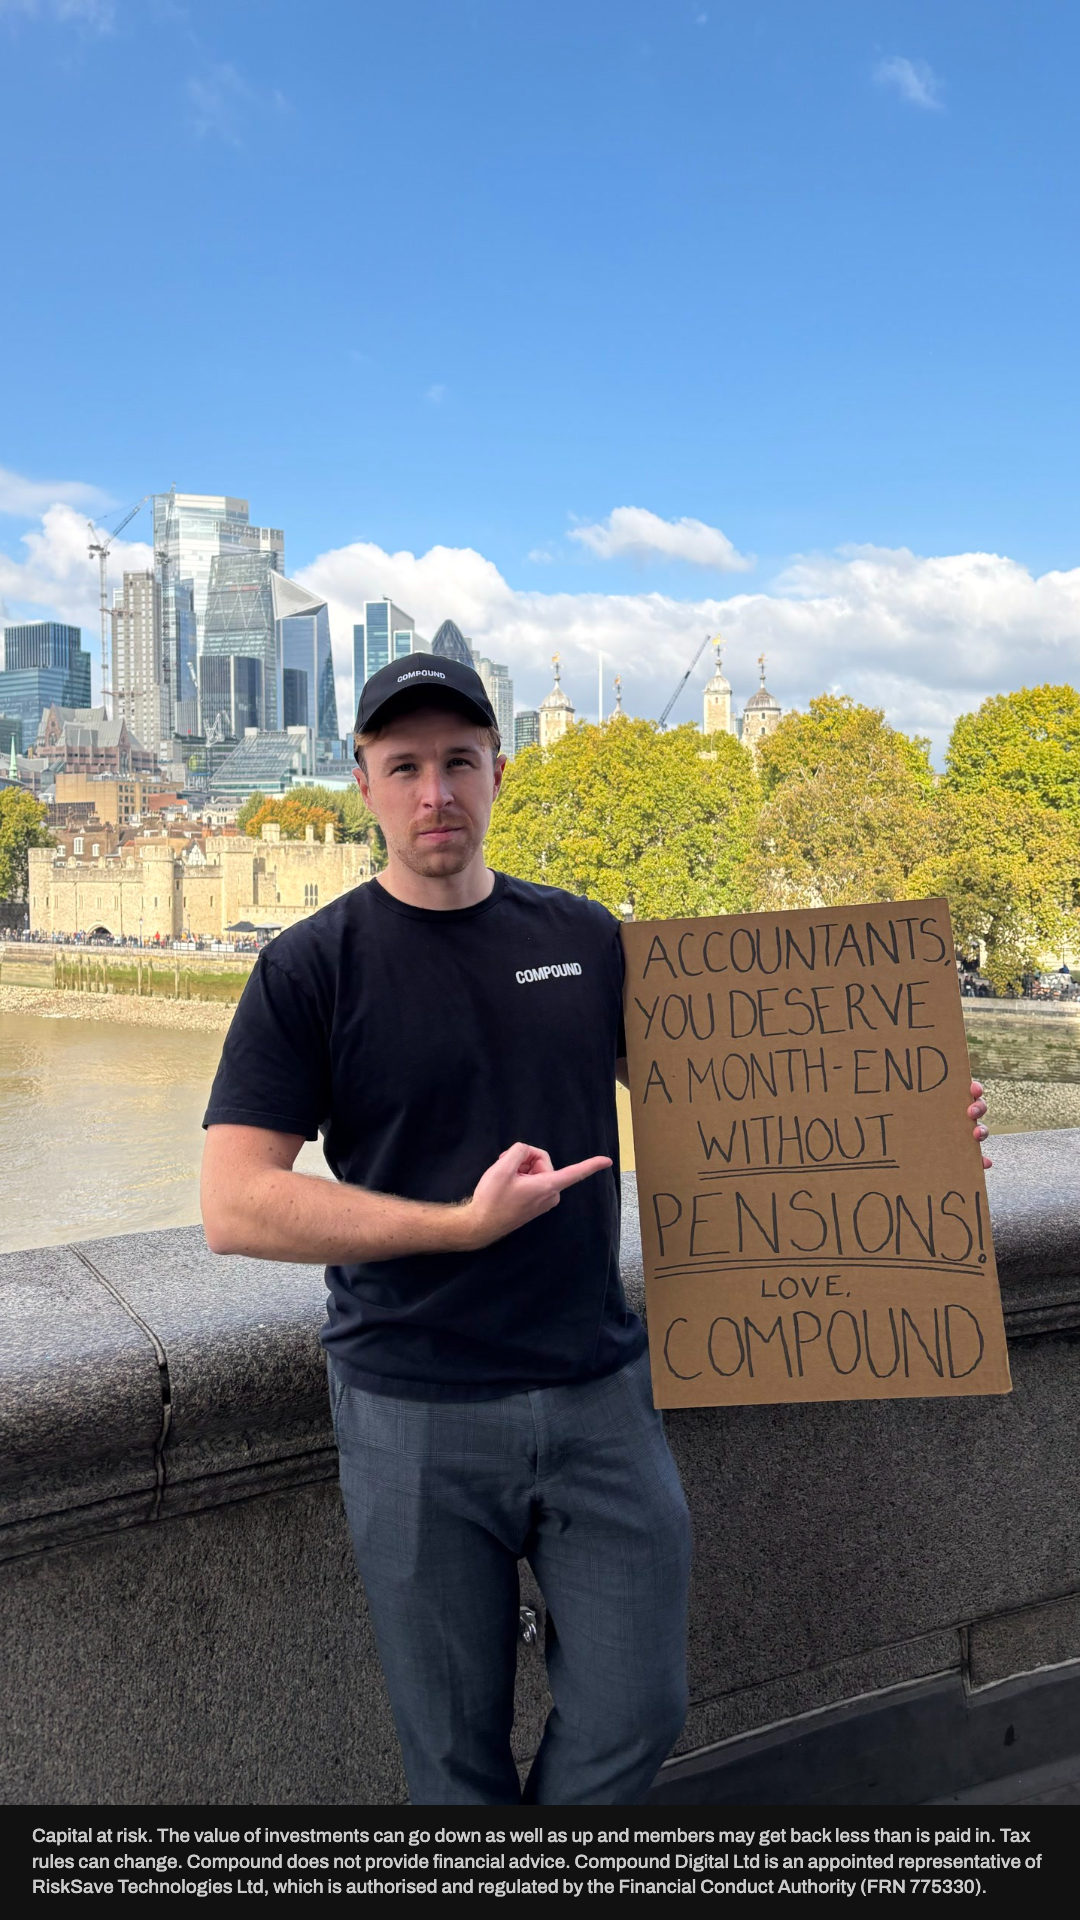
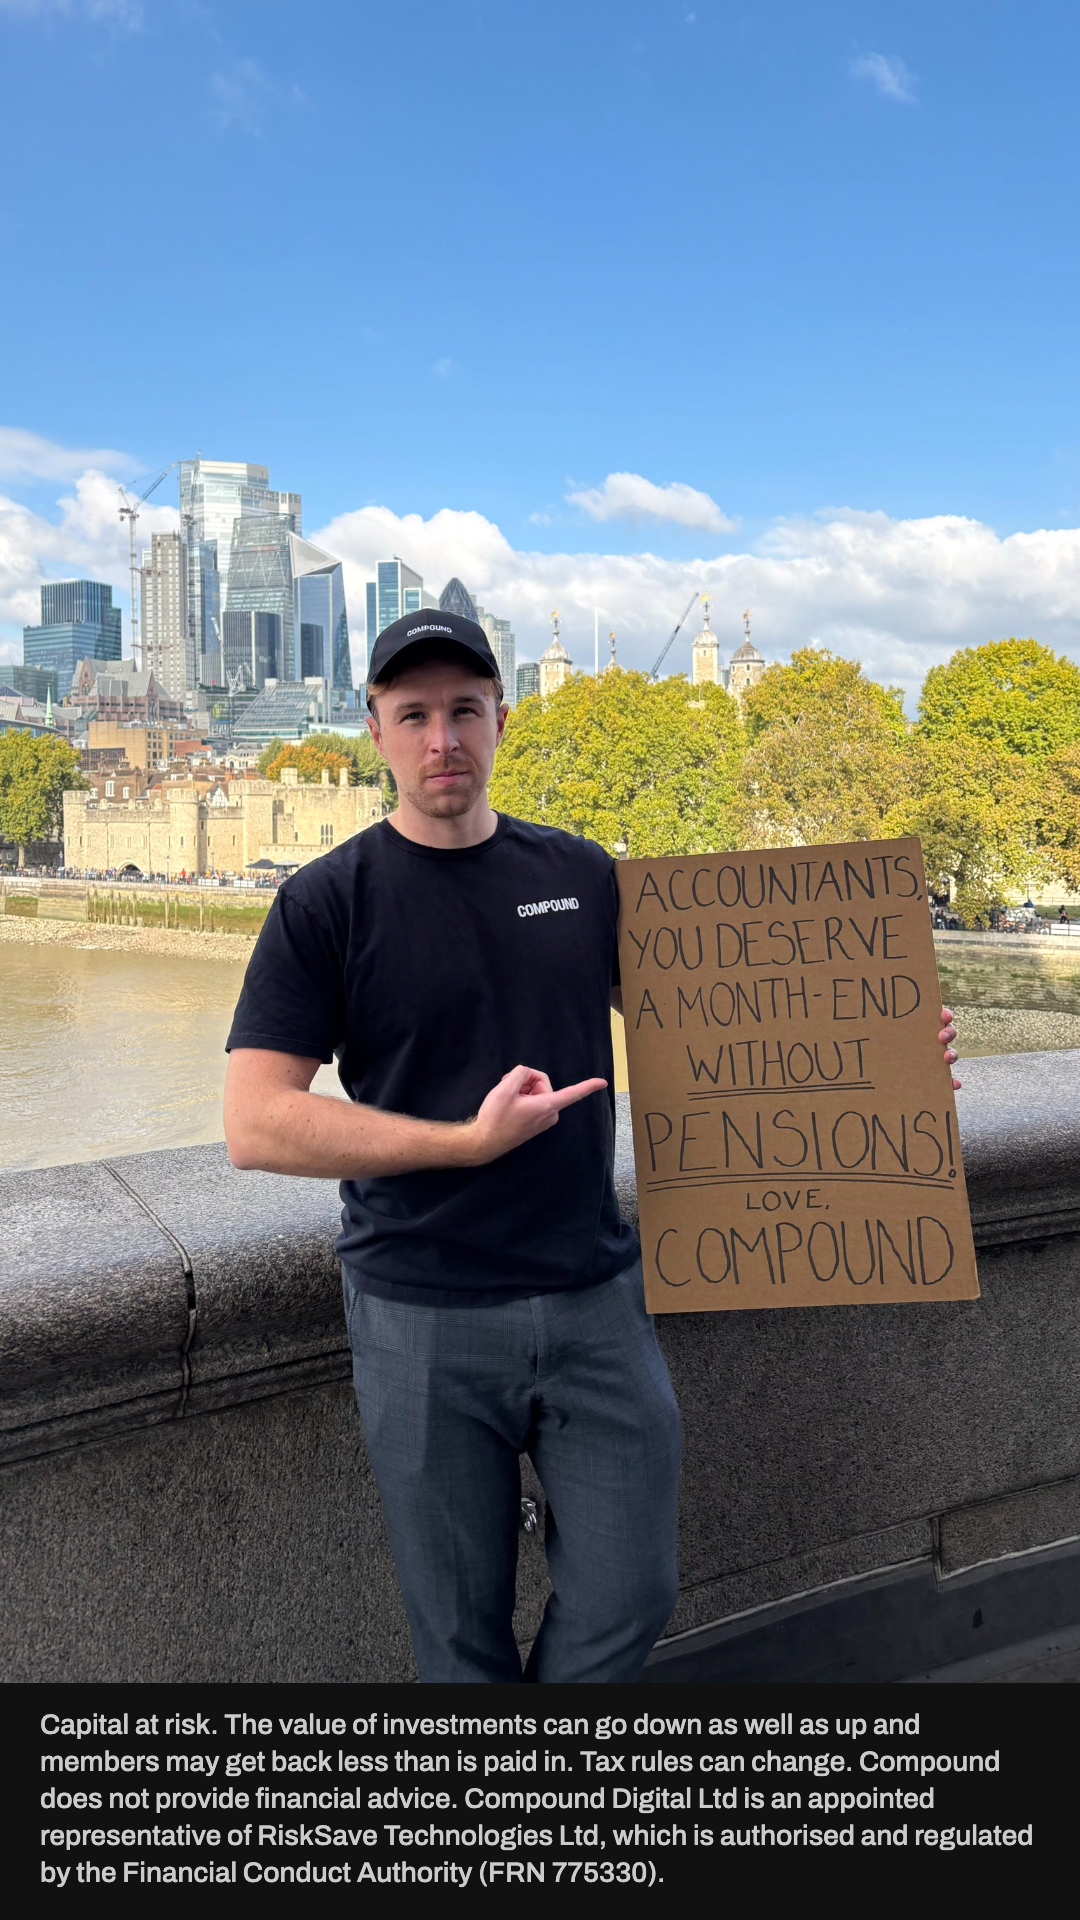
fix(compound): larger risk text on sign statics

diff --git a/outputs/creative/compound-sign-statics/html/S03-9x16.html b/outputs/creative/compound-sign-statics/html/S03-9x16.html
@@ -8,9 +8,9 @@ body{display:flex;flex-direction:column}
 .split{display:flex;gap:4px;background:#111}
 .half{flex:1;min-width:0;min-height:0;overflow:hidden}
 img{display:block;width:100%;height:100%;object-fit:cover}
-.risk{padding:18px 32px 20px;
+.risk{padding:24px 40px 28px;
   font-family:'Archivo',sans-serif;font-weight:500;color:rgba(255,255,255,.78);
-  font-size:19px;line-height:1.35}
+  font-size:28px;line-height:1.32}
 </style></head><body>
 <div class="media split" style="flex-direction:column"><div class="half"><img src="../photos/IMG_5772.jpg" style="object-position:50% 45%"></div><div class="half"><img src="../photos/IMG_5775.jpg" style="object-position:50% 55%"></div></div>
 <div class="risk">Capital at risk. The value of investments can go down as well as up and members may get back less than is paid in. Tax rules can change. Compound does not provide financial advice. Compound Digital Ltd is an appointed representative of RiskSave Technologies Ltd, which is authorised and regulated by the Financial Conduct Authority (FRN 775330).</div>

diff --git a/outputs/creative/compound-sign-statics/html/S03-1x1.html b/outputs/creative/compound-sign-statics/html/S03-1x1.html
@@ -8,9 +8,9 @@ body{display:flex;flex-direction:column}
 .split{display:flex;gap:4px;background:#111}
 .half{flex:1;min-width:0;min-height:0;overflow:hidden}
 img{display:block;width:100%;height:100%;object-fit:cover}
-.risk{padding:14px 28px 16px;
+.risk{padding:18px 32px 20px;
   font-family:'Archivo',sans-serif;font-weight:500;color:rgba(255,255,255,.78);
-  font-size:15px;line-height:1.35}
+  font-size:22px;line-height:1.32}
 </style></head><body>
 <div class="media split" style="flex-direction:row"><div class="half"><img src="../photos/IMG_5772.jpg" style="object-position:50% 50%"></div><div class="half"><img src="../photos/IMG_5775.jpg" style="object-position:50% 50%"></div></div>
 <div class="risk">Capital at risk. The value of investments can go down as well as up and members may get back less than is paid in. Tax rules can change. Compound does not provide financial advice. Compound Digital Ltd is an appointed representative of RiskSave Technologies Ltd, which is authorised and regulated by the Financial Conduct Authority (FRN 775330).</div>

diff --git a/outputs/creative/compound-sign-statics/html/S06-1x1.html b/outputs/creative/compound-sign-statics/html/S06-1x1.html
@@ -8,9 +8,9 @@ body{display:flex;flex-direction:column}
 .split{display:flex;gap:4px;background:#111}
 .half{flex:1;min-width:0;min-height:0;overflow:hidden}
 img{display:block;width:100%;height:100%;object-fit:cover}
-.risk{padding:14px 28px 16px;
+.risk{padding:18px 32px 20px;
   font-family:'Archivo',sans-serif;font-weight:500;color:rgba(255,255,255,.78);
-  font-size:15px;line-height:1.35}
+  font-size:22px;line-height:1.32}
 </style></head><body>
 <div class="media"><img src="../photos/IMG_5763.jpg" style="object-position:50% 55%"></div>
 <div class="risk">Capital at risk. The value of investments can go down as well as up and you may get back less than you put in. Transferring is not right for everyone. Check for exit fees or benefits you may lose. Compound does not provide financial advice. Compound Digital Ltd is an appointed representative of RiskSave Technologies Ltd, which is authorised and regulated by the Financial Conduct Authority (FRN 775330).</div>

diff --git a/outputs/creative/compound-sign-statics/html/S06-9x16.html b/outputs/creative/compound-sign-statics/html/S06-9x16.html
@@ -8,9 +8,9 @@ body{display:flex;flex-direction:column}
 .split{display:flex;gap:4px;background:#111}
 .half{flex:1;min-width:0;min-height:0;overflow:hidden}
 img{display:block;width:100%;height:100%;object-fit:cover}
-.risk{padding:18px 32px 20px;
+.risk{padding:24px 40px 28px;
   font-family:'Archivo',sans-serif;font-weight:500;color:rgba(255,255,255,.78);
-  font-size:19px;line-height:1.35}
+  font-size:28px;line-height:1.32}
 </style></head><body>
 <div class="media"><img src="../photos/IMG_5763.jpg" style="object-position:50% 40%"></div>
 <div class="risk">Capital at risk. The value of investments can go down as well as up and you may get back less than you put in. Transferring is not right for everyone. Check for exit fees or benefits you may lose. Compound does not provide financial advice. Compound Digital Ltd is an appointed representative of RiskSave Technologies Ltd, which is authorised and regulated by the Financial Conduct Authority (FRN 775330).</div>

diff --git a/outputs/creative/compound-sign-statics/html/S01-1x1.html b/outputs/creative/compound-sign-statics/html/S01-1x1.html
@@ -8,9 +8,9 @@ body{display:flex;flex-direction:column}
 .split{display:flex;gap:4px;background:#111}
 .half{flex:1;min-width:0;min-height:0;overflow:hidden}
 img{display:block;width:100%;height:100%;object-fit:cover}
-.risk{padding:14px 28px 16px;
+.risk{padding:18px 32px 20px;
   font-family:'Archivo',sans-serif;font-weight:500;color:rgba(255,255,255,.78);
-  font-size:15px;line-height:1.35}
+  font-size:22px;line-height:1.32}
 </style></head><body>
 <div class="media"><img src="../photos/IMG_5697.jpg" style="object-position:50% 15%"></div>
 <div class="risk">Capital at risk. The value of investments can go down as well as up and members may get back less than is paid in. Tax rules can change. Compound does not provide financial advice. Compound Digital Ltd is an appointed representative of RiskSave Technologies Ltd, which is authorised and regulated by the Financial Conduct Authority (FRN 775330).</div>

diff --git a/outputs/creative/compound-sign-statics/html/S01-9x16.html b/outputs/creative/compound-sign-statics/html/S01-9x16.html
@@ -8,9 +8,9 @@ body{display:flex;flex-direction:column}
 .split{display:flex;gap:4px;background:#111}
 .half{flex:1;min-width:0;min-height:0;overflow:hidden}
 img{display:block;width:100%;height:100%;object-fit:cover}
-.risk{padding:18px 32px 20px;
+.risk{padding:24px 40px 28px;
   font-family:'Archivo',sans-serif;font-weight:500;color:rgba(255,255,255,.78);
-  font-size:19px;line-height:1.35}
+  font-size:28px;line-height:1.32}
 </style></head><body>
 <div class="media"><img src="../photos/IMG_5697.jpg" style="object-position:50% 40%"></div>
 <div class="risk">Capital at risk. The value of investments can go down as well as up and members may get back less than is paid in. Tax rules can change. Compound does not provide financial advice. Compound Digital Ltd is an appointed representative of RiskSave Technologies Ltd, which is authorised and regulated by the Financial Conduct Authority (FRN 775330).</div>

diff --git a/outputs/creative/compound-sign-statics/html/S02-1x1.html b/outputs/creative/compound-sign-statics/html/S02-1x1.html
@@ -8,9 +8,9 @@ body{display:flex;flex-direction:column}
 .split{display:flex;gap:4px;background:#111}
 .half{flex:1;min-width:0;min-height:0;overflow:hidden}
 img{display:block;width:100%;height:100%;object-fit:cover}
-.risk{padding:14px 28px 16px;
+.risk{padding:18px 32px 20px;
   font-family:'Archivo',sans-serif;font-weight:500;color:rgba(255,255,255,.78);
-  font-size:15px;line-height:1.35}
+  font-size:22px;line-height:1.32}
 </style></head><body>
 <div class="media"><img src="../photos/IMG_5727.jpg" style="object-position:50% 62%"></div>
 <div class="risk">Capital at risk. The value of investments can go down as well as up and members may get back less than is paid in. Tax rules can change. Compound does not provide financial advice. Compound Digital Ltd is an appointed representative of RiskSave Technologies Ltd, which is authorised and regulated by the Financial Conduct Authority (FRN 775330).</div>

diff --git a/outputs/creative/compound-sign-statics/html/S02-9x16.html b/outputs/creative/compound-sign-statics/html/S02-9x16.html
@@ -8,9 +8,9 @@ body{display:flex;flex-direction:column}
 .split{display:flex;gap:4px;background:#111}
 .half{flex:1;min-width:0;min-height:0;overflow:hidden}
 img{display:block;width:100%;height:100%;object-fit:cover}
-.risk{padding:18px 32px 20px;
+.risk{padding:24px 40px 28px;
   font-family:'Archivo',sans-serif;font-weight:500;color:rgba(255,255,255,.78);
-  font-size:19px;line-height:1.35}
+  font-size:28px;line-height:1.32}
 </style></head><body>
 <div class="media"><img src="../photos/IMG_5727.jpg" style="object-position:50% 60%"></div>
 <div class="risk">Capital at risk. The value of investments can go down as well as up and members may get back less than is paid in. Tax rules can change. Compound does not provide financial advice. Compound Digital Ltd is an appointed representative of RiskSave Technologies Ltd, which is authorised and regulated by the Financial Conduct Authority (FRN 775330).</div>

diff --git a/outputs/creative/compound-sign-statics/html/S04-1x1.html b/outputs/creative/compound-sign-statics/html/S04-1x1.html
@@ -8,9 +8,9 @@ body{display:flex;flex-direction:column}
 .split{display:flex;gap:4px;background:#111}
 .half{flex:1;min-width:0;min-height:0;overflow:hidden}
 img{display:block;width:100%;height:100%;object-fit:cover}
-.risk{padding:14px 28px 16px;
+.risk{padding:18px 32px 20px;
   font-family:'Archivo',sans-serif;font-weight:500;color:rgba(255,255,255,.78);
-  font-size:15px;line-height:1.35}
+  font-size:22px;line-height:1.32}
 </style></head><body>
 <div class="media"><img src="../photos/IMG_5779.jpg" style="object-position:50% 55%"></div>
 <div class="risk">Capital at risk. The value of investments can go down as well as up and members may get back less than is paid in. Tax rules can change. Compound does not provide financial advice. Compound Digital Ltd is an appointed representative of RiskSave Technologies Ltd, which is authorised and regulated by the Financial Conduct Authority (FRN 775330).</div>

diff --git a/outputs/creative/compound-sign-statics/html/S04-9x16.html b/outputs/creative/compound-sign-statics/html/S04-9x16.html
@@ -8,9 +8,9 @@ body{display:flex;flex-direction:column}
 .split{display:flex;gap:4px;background:#111}
 .half{flex:1;min-width:0;min-height:0;overflow:hidden}
 img{display:block;width:100%;height:100%;object-fit:cover}
-.risk{padding:18px 32px 20px;
+.risk{padding:24px 40px 28px;
   font-family:'Archivo',sans-serif;font-weight:500;color:rgba(255,255,255,.78);
-  font-size:19px;line-height:1.35}
+  font-size:28px;line-height:1.32}
 </style></head><body>
 <div class="media"><img src="../photos/IMG_5779.jpg" style="object-position:50% 50%"></div>
 <div class="risk">Capital at risk. The value of investments can go down as well as up and members may get back less than is paid in. Tax rules can change. Compound does not provide financial advice. Compound Digital Ltd is an appointed representative of RiskSave Technologies Ltd, which is authorised and regulated by the Financial Conduct Authority (FRN 775330).</div>

diff --git a/outputs/creative/compound-sign-statics/html/S05-1x1.html b/outputs/creative/compound-sign-statics/html/S05-1x1.html
@@ -8,9 +8,9 @@ body{display:flex;flex-direction:column}
 .split{display:flex;gap:4px;background:#111}
 .half{flex:1;min-width:0;min-height:0;overflow:hidden}
 img{display:block;width:100%;height:100%;object-fit:cover}
-.risk{padding:14px 28px 16px;
+.risk{padding:18px 32px 20px;
   font-family:'Archivo',sans-serif;font-weight:500;color:rgba(255,255,255,.78);
-  font-size:15px;line-height:1.35}
+  font-size:22px;line-height:1.32}
 </style></head><body>
 <div class="media"><img src="../photos/IMG_5739.jpg" style="object-position:50% 75%"></div>
 <div class="risk">Capital at risk. The value of investments can go down as well as up and members may get back less than is paid in. Tax rules can change. Compound does not provide financial advice. Compound Digital Ltd is an appointed representative of RiskSave Technologies Ltd, which is authorised and regulated by the Financial Conduct Authority (FRN 775330).</div>

diff --git a/outputs/creative/compound-sign-statics/html/S05-9x16.html b/outputs/creative/compound-sign-statics/html/S05-9x16.html
@@ -8,9 +8,9 @@ body{display:flex;flex-direction:column}
 .split{display:flex;gap:4px;background:#111}
 .half{flex:1;min-width:0;min-height:0;overflow:hidden}
 img{display:block;width:100%;height:100%;object-fit:cover}
-.risk{padding:18px 32px 20px;
+.risk{padding:24px 40px 28px;
   font-family:'Archivo',sans-serif;font-weight:500;color:rgba(255,255,255,.78);
-  font-size:19px;line-height:1.35}
+  font-size:28px;line-height:1.32}
 </style></head><body>
 <div class="media"><img src="../photos/IMG_5739.jpg" style="object-position:50% 70%"></div>
 <div class="risk">Capital at risk. The value of investments can go down as well as up and members may get back less than is paid in. Tax rules can change. Compound does not provide financial advice. Compound Digital Ltd is an appointed representative of RiskSave Technologies Ltd, which is authorised and regulated by the Financial Conduct Authority (FRN 775330).</div>
